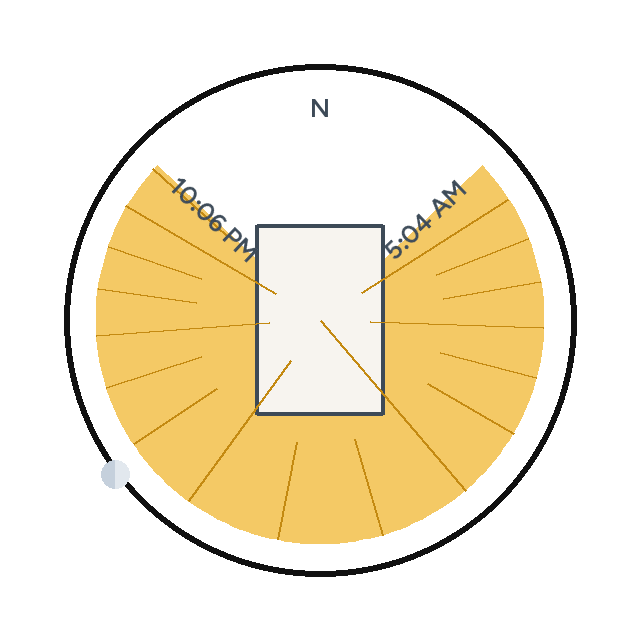
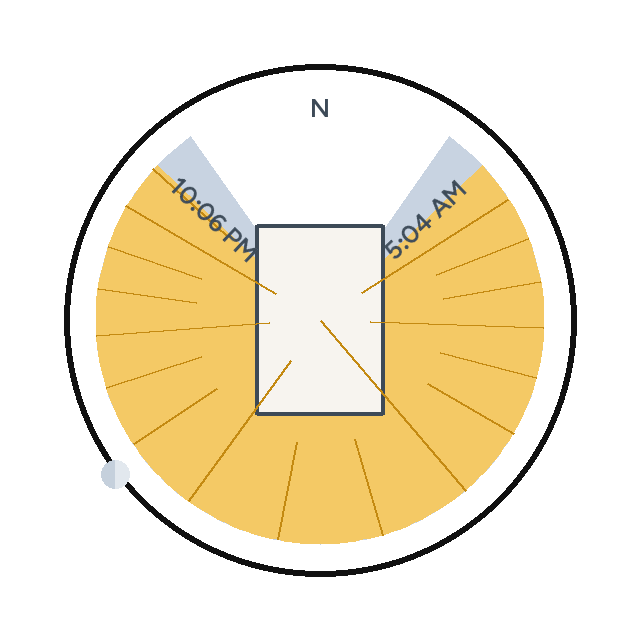
🤖 Add a twilight wedge, on by default
Civil dawn to civil dusk sits under the daylight, and the card can hide it.

Changed region(s): [[0.25, 0.2188, 0.4062, 0.4062], [0.5938, 0.2188, 0.75, 0.4062]]

diff --git a/custom_components/sun_sweep/frontend/sun-sweep-card.js b/custom_components/sun_sweep/frontend/sun-sweep-card.js
@@ -12,6 +12,7 @@ const RING_R = 128;
 const PALE = "#f6d84a";
 const STRONG = "#f0b429";
 const HOUR = "#c48a12";
+const TWILIGHT = "#9aafc9";
 const RING = "#111111";
 
 const clockwise = (start, end) => (end - start + 360) % 360;
@@ -113,6 +114,11 @@ class SunSweepCard extends LitElement {
   _picture(attrs) {
     const sunClockwise = attrs.sun_clockwise !== false;
     const parts = [];
+    if (this._on("show_twilight") && attrs.twilight_full) {
+      parts.push(svg`<circle id="twilight" cx="160" cy="160" r=${RIM} fill=${TWILIGHT} fill-opacity="0.55"></circle>`);
+    } else if (this._on("show_twilight") && attrs.twilight_start != null) {
+      parts.push(wedge("twilight", attrs.twilight_start, attrs.twilight_end, RIM, TWILIGHT, 0.55, sunClockwise));
+    }
     if (attrs.pale_full) {
       parts.push(svg`<circle id="pale" cx="160" cy="160" r=${RIM} fill=${PALE} fill-opacity="0.35"></circle>`);
       parts.push(svg`<circle id="rim" cx="160" cy="160" r=${RIM} fill="none" stroke=${HOUR} stroke-width="1.5"></circle>`);
@@ -207,6 +213,7 @@ class SunSweepCardEditor extends LitElement {
       { name: "show_times", selector: { boolean: {} } },
       { name: "show_moon", selector: { boolean: {} } },
       { name: "show_hours", selector: { boolean: {} } },
+      { name: "show_twilight", selector: { boolean: {} } },
     ];
   }
 
@@ -217,6 +224,7 @@ class SunSweepCardEditor extends LitElement {
       show_times: this.config.show_times !== false,
       show_moon: this.config.show_moon !== false,
       show_hours: this.config.show_hours !== false,
+      show_twilight: this.config.show_twilight !== false,
     };
   }
 
@@ -242,6 +250,7 @@ class SunSweepCardEditor extends LitElement {
             show_times: "Sunrise and sunset",
             show_moon: "Moon",
             show_hours: "Hour lines",
+            show_twilight: "Twilight",
           })[item.name]}
         @value-changed=${this._changed}
       ></ha-form>

diff --git a/custom_components/sun_sweep/sweep.py b/custom_components/sun_sweep/sweep.py
@@ -97,17 +97,22 @@ class Sweep:
     hours: tuple[tuple[datetime, float], ...]
     pale: tuple[float, float, bool] | None
     strong: tuple[float, float, bool] | None
+    # Civil dawn to civil dusk. Wider than the daylight sector.
+    twilight: tuple[float, float, bool] | None
     # True when the sun's azimuth increases through the day (northern sky).
     sun_clockwise: bool
 
     def attributes(self) -> dict:
         """JSON-ready fields for the sensor. ``None`` is left out."""
         pale_start = pale_end = strong_start = strong_end = None
-        pale_full = strong_full = False
+        twilight_start = twilight_end = None
+        pale_full = strong_full = twilight_full = False
         if self.pale is not None:
             pale_start, pale_end, pale_full = self.pale
         if self.strong is not None:
             strong_start, strong_end, strong_full = self.strong
+        if self.twilight is not None:
+            twilight_start, twilight_end, twilight_full = self.twilight
         raw = {
             "sunrise": None if self.sunrise is None else self.sunrise.isoformat(),
             "sunset": None if self.sunset is None else self.sunset.isoformat(),
@@ -132,6 +137,11 @@ class Sweep:
             "strong_start": None if strong_start is None else round(strong_start, 1),
             "strong_end": None if strong_end is None else round(strong_end, 1),
             "strong_full": strong_full,
+            "twilight_start": (
+                None if twilight_start is None else round(twilight_start, 1)
+            ),
+            "twilight_end": None if twilight_end is None else round(twilight_end, 1),
+            "twilight_full": twilight_full,
             "sun_clockwise": self.sun_clockwise,
         }
         return {key: value for key, value in raw.items() if value is not None}
@@ -163,6 +173,8 @@ def day_sweep(when: datetime, latitude: float, longitude: float) -> Sweep:
     rise, sett = times["sunrise"], times["sunset"]
     rise_az = azimuth(observer, rise)
     set_az = azimuth(observer, sett)
+    dawn_az = azimuth(observer, times["dawn"])
+    dusk_az = azimuth(observer, times["dusk"])
     sun_clockwise = _sun_clockwise(observer, rise, rise_az)
     if when < rise:
         phase = BEFORE
@@ -188,6 +200,7 @@ def day_sweep(when: datetime, latitude: float, longitude: float) -> Sweep:
         ),
         pale=(rise_az, set_az, False),
         strong=strong,
+        twilight=(dawn_az, dusk_az, False),
         sun_clockwise=sun_clockwise,
     )
 
@@ -226,6 +239,7 @@ def _polar(when, observer, sun_az, sun_el, moon_az, moon_el) -> Sweep:
             hours=_hours(observer, when, None, None, 0.0, 0.0, True, full=True),
             pale=(0.0, 360.0, True),
             strong=(midnight_az, sun_az, False),
+            twilight=None,
             sun_clockwise=_sun_clockwise(observer, midnight, midnight_az),
         )
     return Sweep(
@@ -241,6 +255,7 @@ def _polar(when, observer, sun_az, sun_el, moon_az, moon_el) -> Sweep:
         hours=(),
         pale=None,
         strong=None,
+        twilight=None,
         sun_clockwise=True,
     )
 

diff --git a/custom_components/sun_sweep/drawing.py b/custom_components/sun_sweep/drawing.py
@@ -23,6 +23,8 @@ from .constants import (
     STRONG,
     STRONG_OPACITY,
     SUN_FILL,
+    TWILIGHT,
+    TWILIGHT_OPACITY,
 )
 from .sweep import travel
 
@@ -70,7 +72,13 @@ def _flags(options: dict | None) -> dict[str, bool]:
     options = options or {}
     return {
         key: options.get(key) is not False
-        for key in ("show_sun", "show_times", "show_moon", "show_hours")
+        for key in (
+            "show_sun",
+            "show_times",
+            "show_moon",
+            "show_hours",
+            "show_twilight",
+        )
     }
 
 
@@ -88,6 +96,24 @@ def _parts(attrs: dict, flags: dict[str, bool], size: int) -> list[str]:
     parts: list[str] = []
     rim = _RIM * size / SIZE
     sun_clockwise = attrs.get("sun_clockwise", True)
+    if flags["show_twilight"] and attrs.get("twilight_full"):
+        parts.append(
+            f'<circle id="twilight" cx="{size / 2}" cy="{size / 2}" r="{rim:.1f}" '
+            f'fill="{TWILIGHT}" fill-opacity="{TWILIGHT_OPACITY}"/>'
+        )
+    elif flags["show_twilight"] and attrs.get("twilight_start") is not None:
+        parts.append(
+            _wedge(
+                "twilight",
+                attrs["twilight_start"],
+                attrs["twilight_end"],
+                rim,
+                TWILIGHT,
+                TWILIGHT_OPACITY,
+                size,
+                sun_clockwise,
+            )
+        )
     if attrs.get("pale_full"):
         parts.append(
             f'<circle id="pale" cx="{size / 2}" cy="{size / 2}" r="{rim:.1f}" '

diff --git a/tests/test_sweep.py b/tests/test_sweep.py
@@ -19,6 +19,7 @@ from custom_components.sun_sweep.sweep import (
     moon_position,
     project_outline,
     snapshot,
+    travel,
 )
 
 EDMONTON = ZoneInfo("America/Edmonton")
@@ -49,6 +50,16 @@ def test_the_southern_sun_travels_the_other_way_through_north():
     end = sweep.pale[1]
     # decreasing azimuth: already travelled is clockwise from now back to sunrise
     assert 0 < clockwise(now, rise) < clockwise(end, rise)
+
+
+def test_twilight_reaches_beyond_sunrise_and_sunset():
+    sweep = day_sweep(_at(EDMONTON, 2026, 6, 21, 9, 30), LAT, LON)
+    assert sweep.twilight is not None and sweep.pale is not None
+    dawn, dusk, _ = sweep.twilight
+    rise, sett, _ = sweep.pale
+    assert travel(dawn, rise, True) > 0
+    assert travel(dawn, sett, True) < travel(dawn, dusk, True)
+    assert "twilight_start" in sweep.attributes()
 
 
 def test_before_sunrise_has_no_strong_wedge_and_no_sun():
@@ -86,6 +97,7 @@ def test_polar_day_is_a_full_disc_with_hour_lines():
     assert sweep.strong is not None
     assert len(sweep.hours) == 24
     assert sweep.sun_elevation > 0
+    assert sweep.twilight is None
 
 
 def test_polar_night_has_no_sector_and_no_hour_lines():
@@ -95,6 +107,7 @@ def test_polar_night_has_no_sector_and_no_hour_lines():
     assert sweep.strong is None
     assert sweep.hours == ()
     assert sweep.sun_elevation < 0
+    assert sweep.twilight is None
 
 
 def test_projection_centres_the_box_and_keeps_north_positive():

diff --git a/scripts/render_card.py b/scripts/render_card.py
@@ -31,6 +31,7 @@ LAT, LON = 53.5461, -113.4938
 HOUSE = [[-6, -4], [6, -4], [6, 4], [-6, 4]]
 INK = (61, 74, 87, 255)
 PALE = (246, 216, 74, 90)
+TWILIGHT = (154, 175, 201, 140)
 STRONG = (240, 180, 41, 184)
 HOUR = (196, 138, 18, 255)
 RING = (17, 17, 17, 255)
@@ -116,6 +117,20 @@ def paint(attrs: dict, size: int = 640) -> Image.Image:
     draw = ImageDraw.Draw(image, "RGBA")
     rim = 112.0 * size / 320
     sun_clockwise = attrs.get("sun_clockwise", True)
+    if attrs.get("twilight_full"):
+        mid = size / 2
+        draw.ellipse((mid - rim, mid - rim, mid + rim, mid + rim), fill=TWILIGHT)
+    elif attrs.get("twilight_start") is not None:
+        draw.polygon(
+            _sector(
+                attrs["twilight_start"],
+                attrs["twilight_end"],
+                rim,
+                size,
+                sun_clockwise,
+            ),
+            fill=TWILIGHT,
+        )
     if attrs.get("pale_full"):
         mid = size / 2
         draw.ellipse((mid - rim, mid - rim, mid + rim, mid + rim), fill=PALE)

diff --git a/tests/test_drawing.py b/tests/test_drawing.py
@@ -105,6 +105,15 @@ def test_after_sunset_the_sun_marker_is_hidden_and_the_wedge_remains():
     assert "5:04 AM" in svg
 
 
+def test_twilight_is_drawn_under_the_day_unless_turned_off():
+    wider = {**SUMMER, "twilight_start": 20.0, "twilight_end": 340.0}
+    svg = card_svg(wider)
+    assert svg.index('id="twilight"') < svg.index('id="pale"')
+    hidden = card_svg(wider, {"show_twilight": False})
+    assert 'id="twilight"' not in hidden
+    assert 'id="pale"' in hidden
+
+
 def test_toggles_drop_their_marks():
     svg = card_svg(
         SUMMER,

diff --git a/custom_components/sun_sweep/constants.py b/custom_components/sun_sweep/constants.py
@@ -21,6 +21,8 @@ PALE_OPACITY = 0.35
 STRONG = "#f0b429"
 STRONG_OPACITY = 0.72
 HOUR = "#c48a12"
+TWILIGHT = "#9aafc9"
+TWILIGHT_OPACITY = 0.55
 RING = "#111111"
 SUN_FILL = "#f5c400"
 SUN_STROKE = "#a56b00"

diff --git a/docs/configuration.md b/docs/configuration.md
@@ -39,6 +39,7 @@ as leaving it on.
 | `show_times` | on | Sunrise and sunset, in your Home Assistant time format, written along the two edges of the wedge |
 | `show_moon` | on | A two-tone disc centred on the black ring at the moon's bearing, only while the moon is above the horizon |
 | `show_hours` | on | A line through the wedge at each local hour the sun is up. Noon runs to the centre. 3, 6 and 9 o'clock, and the same every three hours, run further in than the others |
+| `show_twilight` | on | A blue-grey wedge from civil dawn to civil dusk, drawn under the daylight. What shows is the twilight on either side of the day |
 
 A black ring circles the daylight disc, the way a compass draws its edge.
 North is the top of the circle, just inside that ring. The house sits in the middle, scaled so the
@@ -46,7 +47,8 @@ wedge stays visible around it. Noon is drawn across the building to the centre. 
 
 ## How to read the wedge
 
-The pale yellow is every direction the sun passes today, from sunrise to
+Under the yellow, a blue-grey wedge runs from civil dawn to civil dusk. Turn
+it off with `show_twilight: false`. The pale yellow is every direction the sun passes today, from sunrise to
 sunset, in the direction the sun actually travels. North of the equator that
 is clockwise through south. South of the equator it is the other way, through
 north. A stronger yellow covers the part already past: from sunrise up to the

diff --git a/README.md b/README.md
@@ -73,9 +73,10 @@ show_sun: true
 show_times: true
 show_moon: true
 show_hours: true
+show_twilight: true
 ```
 
-All four toggles default on. The visual editor has the same switches.
+The toggles default on. The visual editor has the same switches.
 
 | Toggle | Draws |
 | --- | --- |
@@ -83,3 +84,4 @@ All four toggles default on. The visual editor has the same switches.
 | Sunrise and sunset | Those clock times written along the two edges of the wedge |
 | Moon | The two-tone disc on the ring, while the moon is above the horizon |
 | Hour lines | A line at each local hour the sun is up. Noon reaches the centre; every third hour is longer than the hours between |
+| Twilight | A blue-grey wedge from civil dawn to civil dusk, under the daylight |
